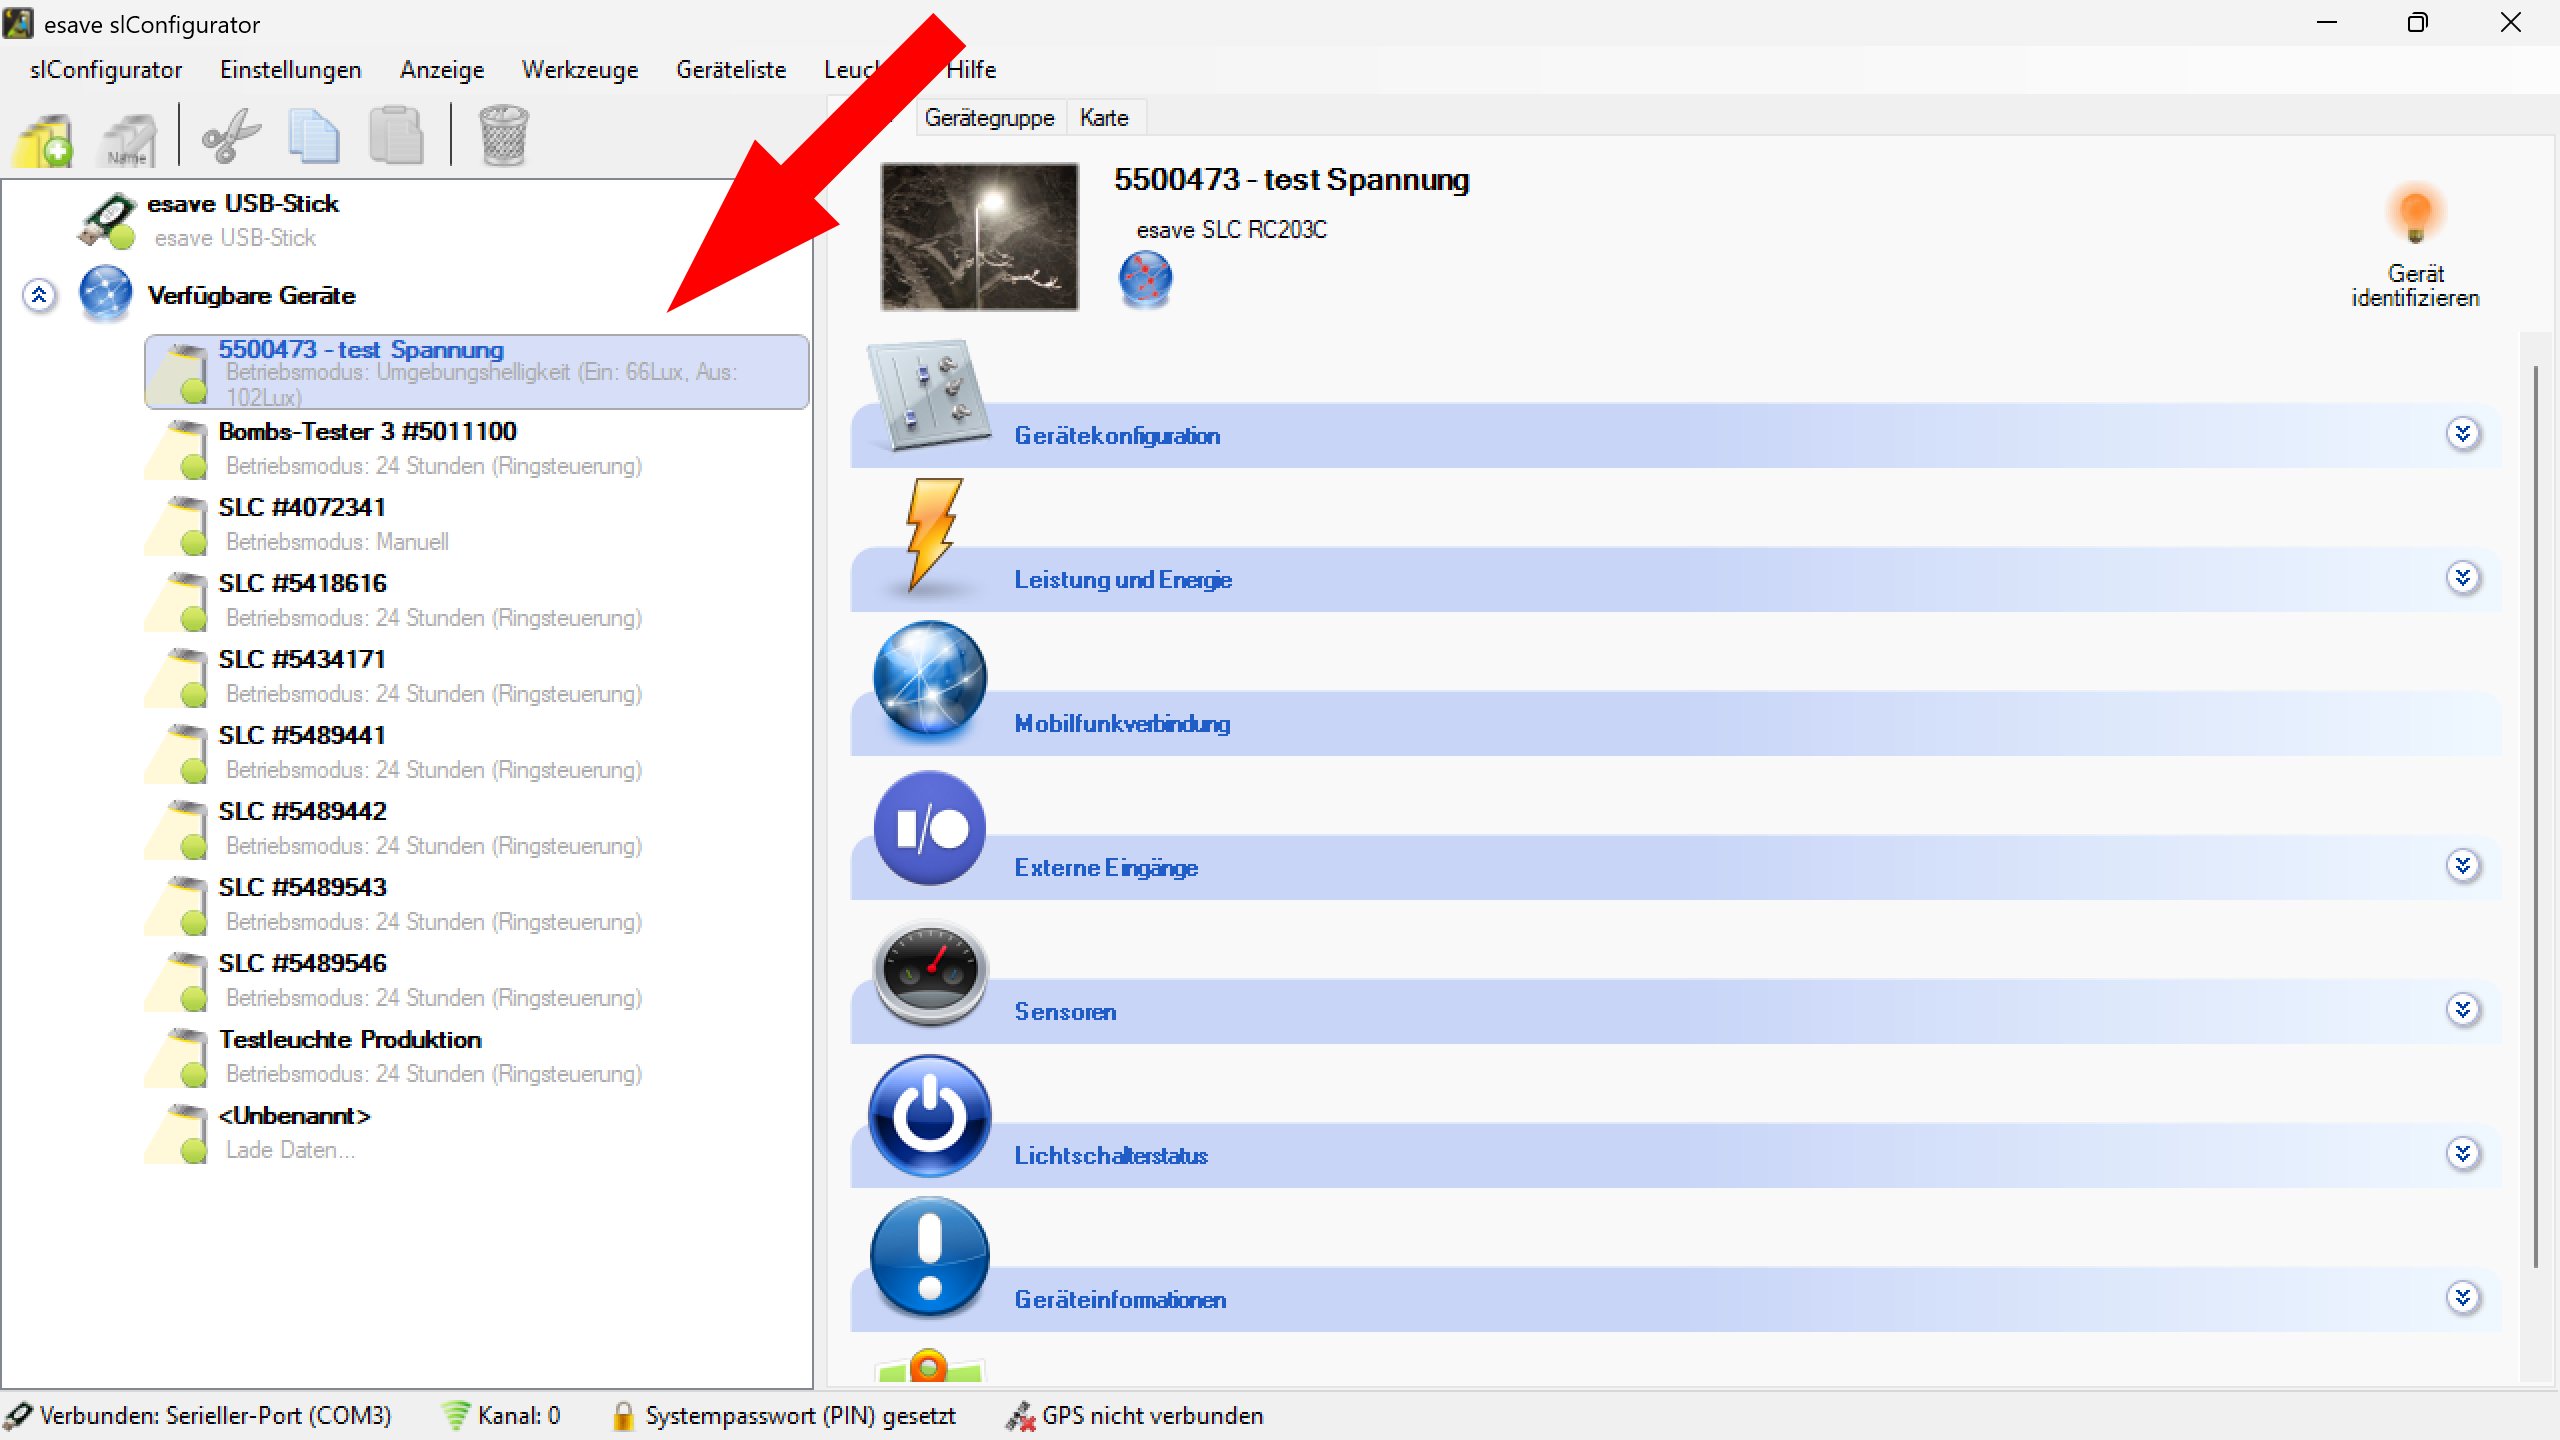
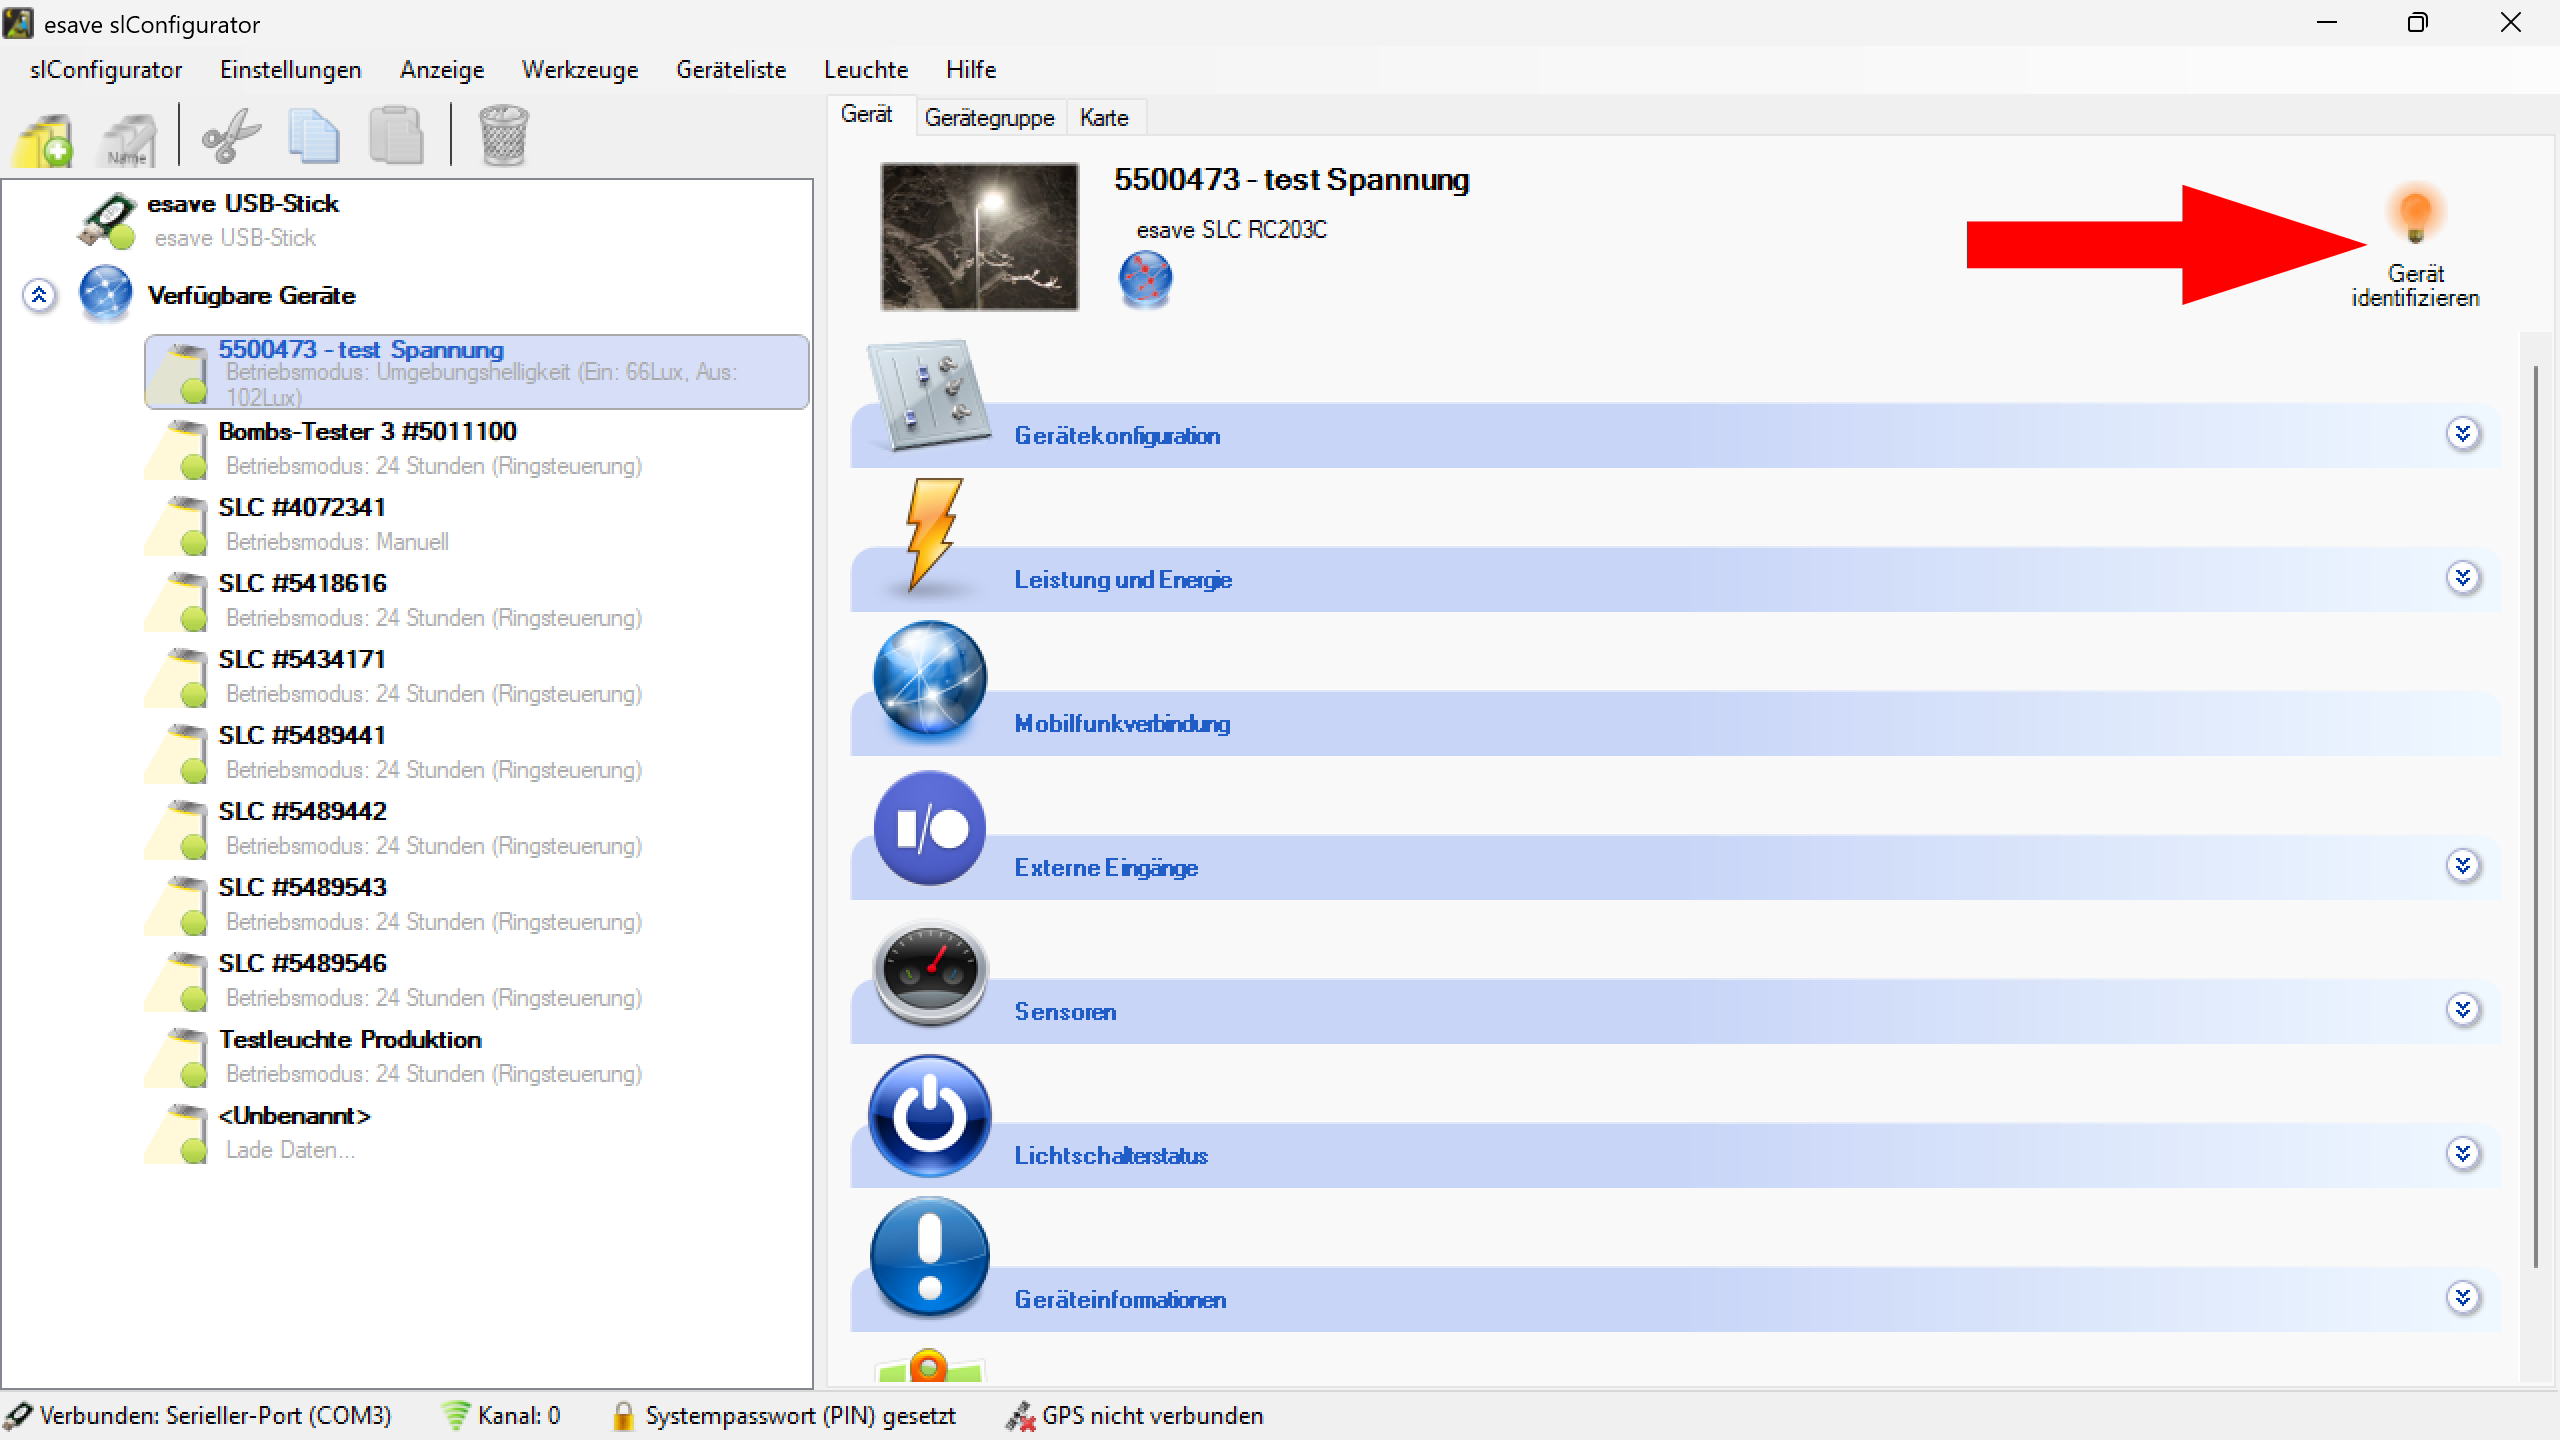
Add 2-migrationsassistent subfolder and update SUMMARY.md, plus various content updates and new images

Changed region(s): [[0.25, 0.0, 0.375, 0.2188], [0.75, 0.125, 0.9375, 0.2188]]

diff --git a/de/src/4-einstellungen/2-verbindung/1-funkkanal/README.md b/de/src/4-einstellungen/2-verbindung/1-funkkanal/README.md
@@ -1,20 +1,20 @@
-**Funkkanal**  
+# Funkkanal  
+># ℹ
+> 
+> Wenn der Funkkanal des Gerätes bekannt ist, kann er direkt eingestellt werden. Ist der Funkkanal nicht bekannt, können mit der Auswahl "Automatisch" alle Funkkanäle durchsucht werden. Findet der SL- Configurator ein Gerät, bricht er die Suche ab und bleibt bei diesem Kanal stehen. 
 
-Definiert den aktuell benutzten Funkkanal des esave SLC- USB Stick.  
+![funkkanal](funkkanal-1.png)  
+*Der Funkkanal kann im SL- Configurator unter* **Einstellungen > Verbindung > Verbindungseinstellungen** *geändert werden.*  
+
+![funkkanal](funkkanal-2.png)  
+*Der Funkkanal kann auch durch einen Doppelklick auf das* **Kanal** *Symbol am unteren Bildschirmrand geändert werden.*  
+
+![funkkanal](funkkanal-3.png)  
+*Definiert den aktuell benutzten Funkkanal des esave SLC- USB Stick.*  
+
 Standard: Kanal 0  
 
-Um mit den Leuchten kommunizieren zu können, muss der Funkkanal der Leuchte und vom Configurator bzw. USB- Stick übereinstimmen.  
-
-Der Funkkanal kann im Configurator unter Einstellungen- Verbindung, oder mit einem Doppelklick auf das Funkkanal Symbol unten am Bildschirm geändert werden.  
-
-Ist der Funkkanal der Leuchten bekannt, kann dieser direkt eingestellt werden.  
-
-Ist der Funkkanal nicht bekannt, können mit der Auswahl “Automatisch” alle Funkkanäle durchsucht werden. Findet der Configurator auf einem Funkkanal eine Leuchte, stoppt er die Suche und bleibt in diesem Kanal.  
+># ℹ
+>Um mit den Leuchten kommunizieren zu können, muss der Funkkanal der Leuchte und vom Configurator bzw. USB- Stick übereinstimmen.  
 
 Die gefundenen Leuchten werden links unter „Verfügbare Geräte“ automatisch aufgeführt.
-
----
-
-**Funkkanal- Migrationsassistent**  
-
-Startet einen Assistenten mit dem der Funkkanal für mehrere Leuchten in einer Anlage gewechselt werden kann.

diff --git a/de/src/5-verfuegbare-geraete/1-geraete-identifizieren/README.md b/de/src/5-verfuegbare-geraete/1-geraete-identifizieren/README.md
@@ -1,37 +1,9 @@
 # Geräte identifizieren 
 
-># ℹ
-> 
-> Wenn der Funkkanal des Gerätes bekannt ist, kann er direkt eingestellt werden. Ist der Funkkanal nicht bekannt, können mit der Auswahl "Automatisch" alle Funkkanäle durchsucht werden. Findet der SL- Configurator ein Gerät, bricht er die Suche ab und bleibt bei diesem Kanal stehen. 
-
-![geraete-identifizieren](geraete-identifizieren-1-1.png)  
-
-Toggle beim Start automatisch verbinden
-
----
-
-Funkkanal
-
----
-
-Experteneistellungen
-
----
-
-Standart widerherstelllen  
-
-## Verbindungseinstellungen  
-
-![geraete-identifizieren](geraete-identifizieren-1-2.png)  
-*Der Funkkanal kann im SL- Configurator unter* **Einstellungen > Verbindung > Verbindungseinstellungen** *geändert werden.*  
-
-![geraete-identifizieren](geraete-identifizieren-1-3.png)  
-*Der Funkkanal kann auch durch einen Doppelklick auf das* **Kanal** *Symbol am unteren Bildschirmrand geändert werden.*  
-
-![geraete-identifizieren](geraete-identifizieren-2.png)  
+![geraete-identifizieren](geraete-identifizieren-1.png)  
 
 *Die gefundenen Geräte werden auf der linken Seite unter den verfügbaren Geräten automatisch aufgelistet.*  
 
-![geraete-identifizieren](geraete-identifizieren-3.png)  
+![geraete-identifizieren](geraete-identifizieren-2.png)  
 
 *Um eine ausgewählte Leuchte zu identifizieren, links in der Geräteliste eine Leuchte auswählen kann diese durch Anklicken des Blinken Symbols identifiziert werden.* **Die Leuchte blinkt dann einmal**.

diff --git a/de/src/SUMMARY.md b/de/src/SUMMARY.md
@@ -7,6 +7,7 @@
   - [Allgemein](./4-einstellungen/1-allgemein/README.md)
   - [Verbindung](./4-einstellungen/2-verbindung/README.md)
     - [Funk-Kanal](./4-einstellungen/2-verbindung/1-funkkanal/README.md)
+    - [Migrationsassistent](./4-einstellungen/2-verbindung/2-migrationsassistent/README.md)
   - [Sicherheit](./4-einstellungen/3-sicherheit/README.md)
     - [PIN setzen](./4-einstellungen/3-sicherheit/1-pin-setzen/README.md)
     - [PIN löschen](./4-einstellungen/3-sicherheit/2-pin-loeschen/README.md)
@@ -54,7 +55,7 @@
       - [Konfiguration des Radarsensors](./5-verfuegbare-geraete/2-geraete-einstellungen/6-sensoren/1-konfiguration-des-radarsensors/README.md)
     - [Neigungssensor](./5-verfuegbare-geraete/2-geraete-einstellungen/7-neigungssensor/README.md)
     - [Umweltsensoren](./5-verfuegbare-geraete/2-geraete-einstellungen/8-umweltsensoren/README.md)
-    - [Umweltsensordaten](./5-verfuegbare-geraete/2-geraete-einstellungen/9-umweltsensordaten/README.md)
+    - [Umweltsensordaten](./5-verfuegbare-geraete/2-geraete-einstellungen/9-umweltsensor-daten/README.md)
     - [Radar Bewegungsmelder](./5-verfuegbare-geraete/2-geraete-einstellungen/10-radar-bewegungsmelder/README.md)
     - [Geräteinformationen](./5-verfuegbare-geraete/2-geraete-einstellungen/11-geraeteinformationen/README.md)
     - [Karte und GPS](./5-verfuegbare-geraete/2-geraete-einstellungen/12-karte-und-gps/README.md)

diff --git a/de/src/5-verfuegbare-geraete/2-geraete-einstellungen/12-karte-und-gps/README.md b/de/src/5-verfuegbare-geraete/2-geraete-einstellungen/12-karte-und-gps/README.md
@@ -1,10 +1,17 @@
 # Karte und GPS
+![Karte und GPS](karte-und-gps.png)  
 
-Um eine Leuchte auf der Karte anzeigen zu können, müssen die Koordinaten der Leuchte definiert werden. Das verwendete Koordinatensystem ist WGS84.
-Um einer Leuchte Koordinaten zuzuweisen, gibt es die folgenden Möglichkeiten:
+Um eine Leuchte auf der Karte anzeigen zu können, müssen die Koordinaten der Leuchte definiert werden.  
+Das verwendete Koordinatensystem ist WGS84.  
+
+Um einer Leuchte Koordinaten zuzuweisen, gibt es die folgenden Möglichkeiten:  
+
 Position:
 Die Position kann manuell eingegeben werden
 Geräteposition auf aktuelle lokale GPS Position setzen:
-Die Position kann von der lokalen GPS Position übernommen werden. Dazu muss ein GPS- Empfänger im Tablet installiert sein oder ein externer Empfänger angeschlossen werden. (Menüpunkt "Einstellungen" > "Einstellungen" > "Lokaler GPS- Empfänger")
+Die Position kann von der lokalen GPS Position übernommen werden. Dazu muss ein GPS- Empfänger im Tablet installiert sein oder ein externer Empfänger angeschlossen werden. (Menüpunkt "Einstellungen" > "Einstellungen" > "Lokaler GPS- Empfänger")  
+
+---
+
 Position manuell auf der Karte setzen:
 Die Position kann manuell auf der Karte per Mausklick ausgewählt werden.

diff --git a/de/src/1-einleitung/README.md b/de/src/1-einleitung/README.md
@@ -1,13 +1,12 @@
 # Einleitung
-># ⚠
-> Der SL-Configurator kann nur in Kombination mit einem esave SLC-USB Stick verwendet werden.
->
->Der SLC-USB Stick hat ein eingebautes Funkmodul, mit dem eine sichere Verbindung mit eSave SL-Controller hergestellt wird.
-
 ># ℹ
 >Die SL-Configurator Software ist eine benutzerfreundliche Windows-Anwendung zur Anzeige, Konfiguration und Verwaltung von Leuchten, die mit esave SL-Controllern ausgestattet sind.
->![USB-Stick](usb-stick.png)   
->
+
+># ⚠
+> Der SL-Configurator kann nur in Kombination mit einem esave SLC-USB Stick verwendet werden.
+>![USB-Stick](usb-stick.png)  
+>Der SLC-USB Stick hat ein eingebautes Funkmodul, mit dem eine sichere Verbindung mit eSave SL-Controller hergestellt wird.
+ 
 ![Hauptansicht des SL-Configurators](einleitung.png)  
 
 *Die Software ist ein leistungsstarkes Werkzeug, das den Nutzern ermöglicht, das Netzwerk in einer einfachen grafischen Oberfläche zu visualisieren. Dadurch können Anpassungen schnell und unkompliziert vor Ort vorgenommen werden, ohne dass eine Internetverbindung erforderlich ist.*

diff --git a/de/src/8-servicemodus/README.md b/de/src/8-servicemodus/README.md
@@ -1,6 +1,9 @@
 # Service Modus
 ![Service Modus](service-modus-1.png)  
-*Der Servicemodus kann unter dem Menüpunkt Anzeige > Service Mode aktiviert werden. Es erscheint ein neuer Reiter Service rechts neben dem Reiter Karte.*  
+*Der Servicemodus kann unter dem Menüpunkt Anzeige > Service Mode aktiviert werden.* 
 
 ![Service Modus](service-modus-2.png)  
-*Der Servicemodus enthält erweiterte Einstellungen, die den Betrieb der Leuchte beeinflussen.*
+*Es erscheint ein neuer Reiter **Service** rechts neben dem Reiter Karte.* 
+
+> # ℹ  
+>Der Servicemodus enthält erweiterte Einstellungen, die den Betrieb der Leuchte beeinflussen.

diff --git a/de/src/5-verfuegbare-geraete/2-geraete-einstellungen/6-sensoren/README.md b/de/src/5-verfuegbare-geraete/2-geraete-einstellungen/6-sensoren/README.md
@@ -1,6 +1,6 @@
 # Sensoren
+![Sensoren](sensoren.png)  
 
 Wenn die Software beim Start einen kompatiblen Sensor erkennt, wird automatisch ein neuer Abschnitt mit den Daten des Sensors erstellt.
-> ℹ **Information:**  
-> info
+
 Sollte es für bestimmte Sensoren weitere Konfigurationsmöglichkeiten geben, werden diese unterhalb der Sensorbeschreibung angezeigt.

diff --git a/de/src/4-einstellungen/2-verbindung/2-migrationsassistent/README.md b/de/src/4-einstellungen/2-verbindung/2-migrationsassistent/README.md
@@ -1,0 +1,5 @@
+# Funkkanal-Migrationsassistent
+
+![Funkkanal Migrationsassistent](migrationsassistent.png)  
+
+Startet einen Assistenten mit dem der Funkkanal für mehrere Leuchten in einer Anlage gewechselt werden kann.

diff --git a/de/src/5-verfuegbare-geraete/2-geraete-einstellungen/10-radar-bewegungsmelder/README.md b/de/src/5-verfuegbare-geraete/2-geraete-einstellungen/10-radar-bewegungsmelder/README.md
@@ -1,12 +1,4 @@
-# leistung-und-energie
+# Radar Bewegungsmelder
+![Radar Bewegungsmelder](radar-bewegungsmelder.png)  
 
-screenshot
-
-kategorien 
-¨
-¨
-¨
-¨
-¨
-¨
-¨
+beschreibung

diff --git a/de/src/5-verfuegbare-geraete/2-geraete-einstellungen/11-geraeteinformationen/README.md b/de/src/5-verfuegbare-geraete/2-geraete-einstellungen/11-geraeteinformationen/README.md
@@ -1,12 +1,4 @@
-# geraeteinformationen
+# Geräteinformationen
+![Geräteinformationen](geraeteinformationen.png)  
 
-screenshot
-
-kategorien 
-¨
-¨
-¨
-¨
-¨
-¨
-¨
+beschreibung

diff --git a/de/src/5-verfuegbare-geraete/2-geraete-einstellungen/3-leistung-und-energie/README.md b/de/src/5-verfuegbare-geraete/2-geraete-einstellungen/3-leistung-und-energie/README.md
@@ -1,12 +1,4 @@
-# leistung-und-energie
+# Leistung und Energie
+![Leistung und Energie](leistung-und-energie.png)  
 
-screenshot
-
-kategorien 
-¨
-¨
-¨
-¨
-¨
-¨
-¨
+beschreibung

diff --git a/de/src/5-verfuegbare-geraete/2-geraete-einstellungen/15-lichtschalterstatus/README.md b/de/src/5-verfuegbare-geraete/2-geraete-einstellungen/15-lichtschalterstatus/README.md
@@ -1,12 +1,4 @@
-# lichtschalterstatus
+# Lichtschalterstatus
+![Lichtschalterstatus](lichtschalterstatus.png)  
 
-screenshot
-
-kategorien 
-¨
-¨
-¨
-¨
-¨
-¨
-¨
+beschreibung
